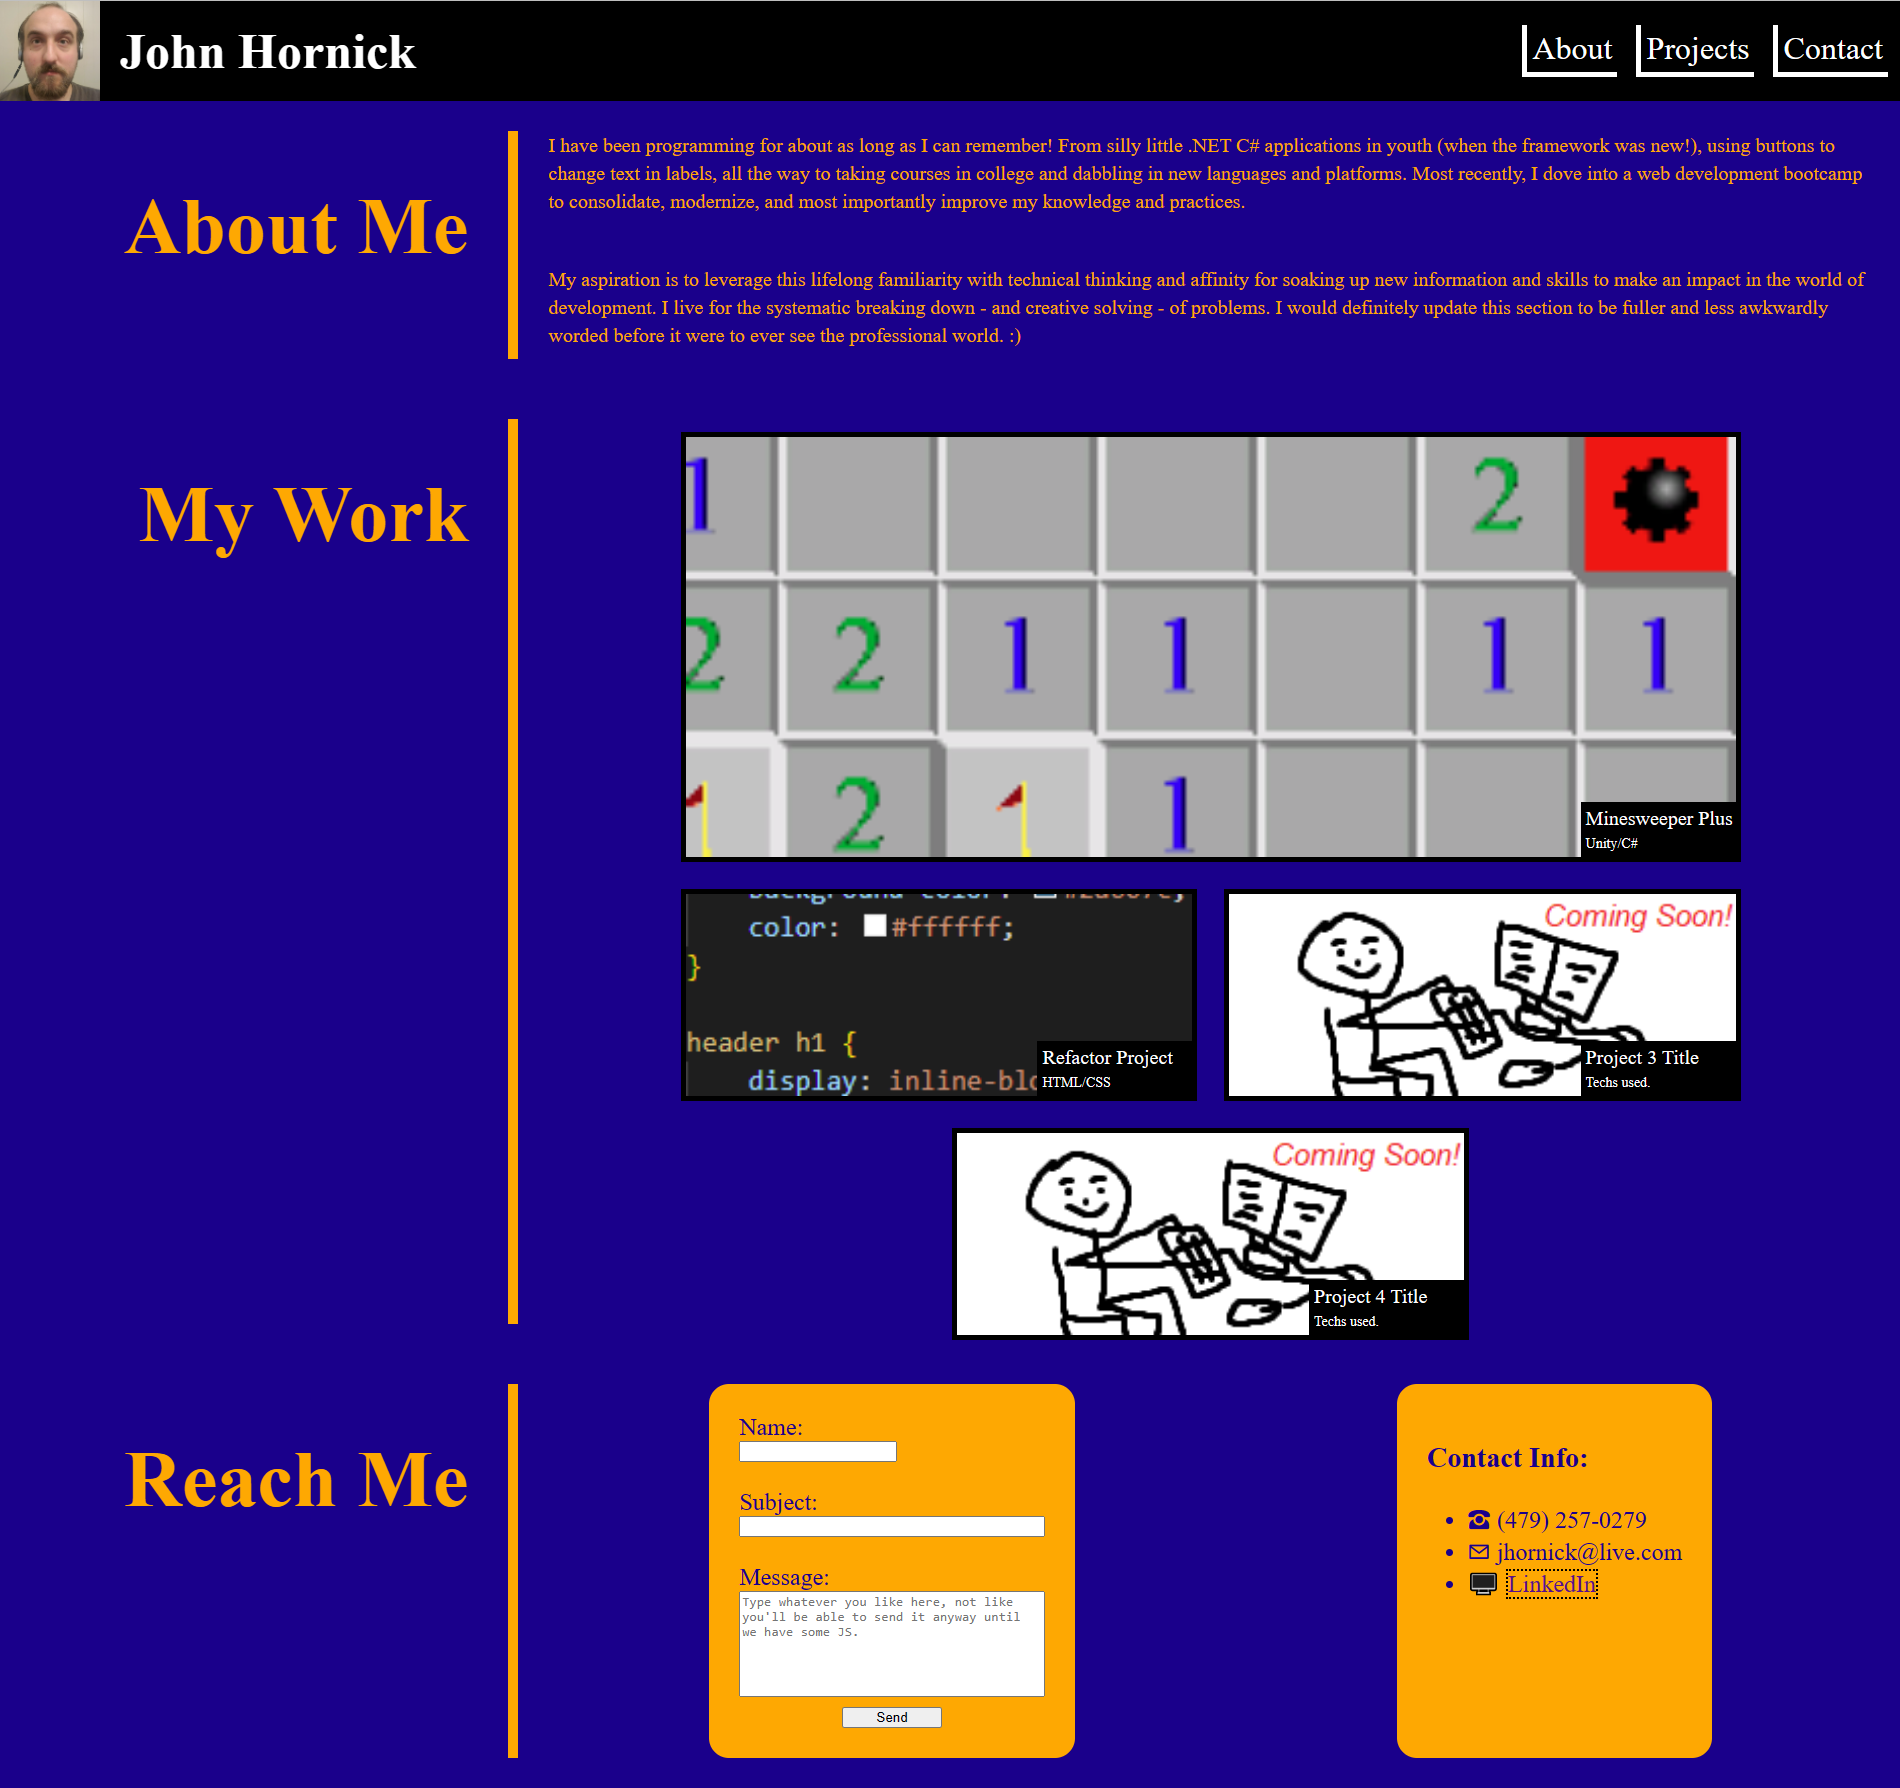
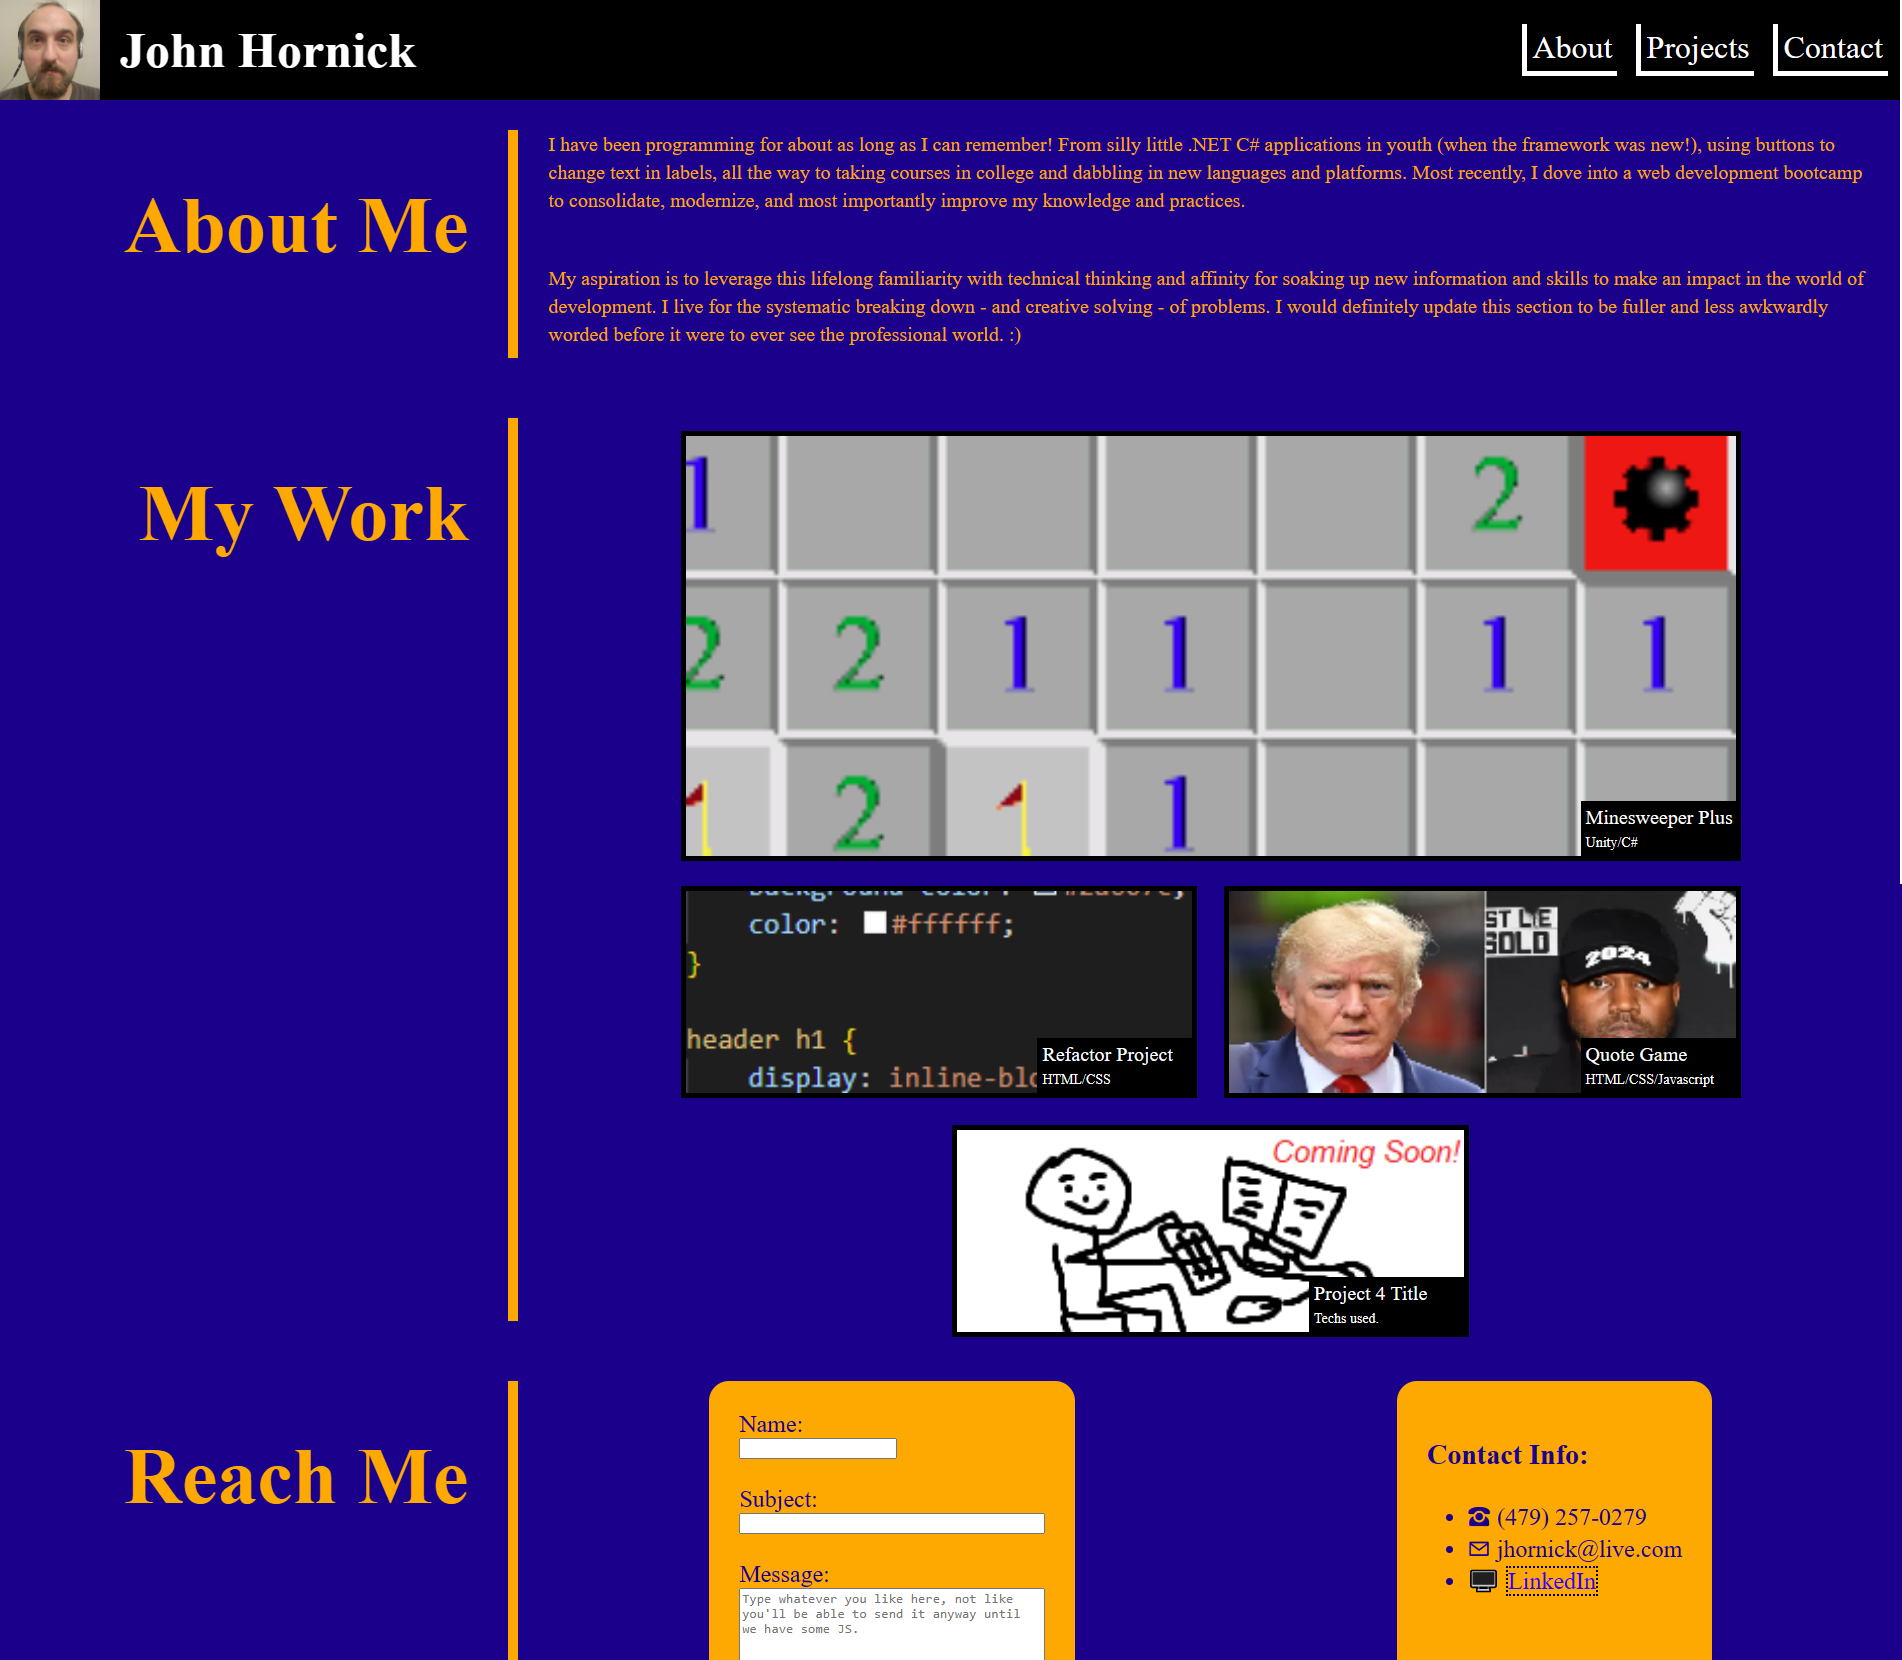
Link to new project added. git status git abort git

diff --git a/index.html b/index.html
@@ -59,10 +59,10 @@
                 </div>
                 <!--placeholder card for future project-->
                 <div class="card">
-                    <a href="https://www.youtube.com/watch?v=dQw4w9WgXcQ" target="_blank">
+                    <a href="https://github.com/hornickjohn/quote-game" target="_blank">
                         <figure class="hovereffect">
-                            <img src="./assets/images/coming-soon-image.png" alt="Stick drawing of individual working on PC." />
-                            <figurecaption>Project 3 Title<br><span>Techs used.</span></figurecaption>
+                            <img src="./assets/images/quote-game-image.png" alt="Images of Trump and Kanye." />
+                            <figurecaption>Quote Game<br><span>HTML/CSS/Javascript</span></figurecaption>
                         </figure>
                     </a>
                 </div>
